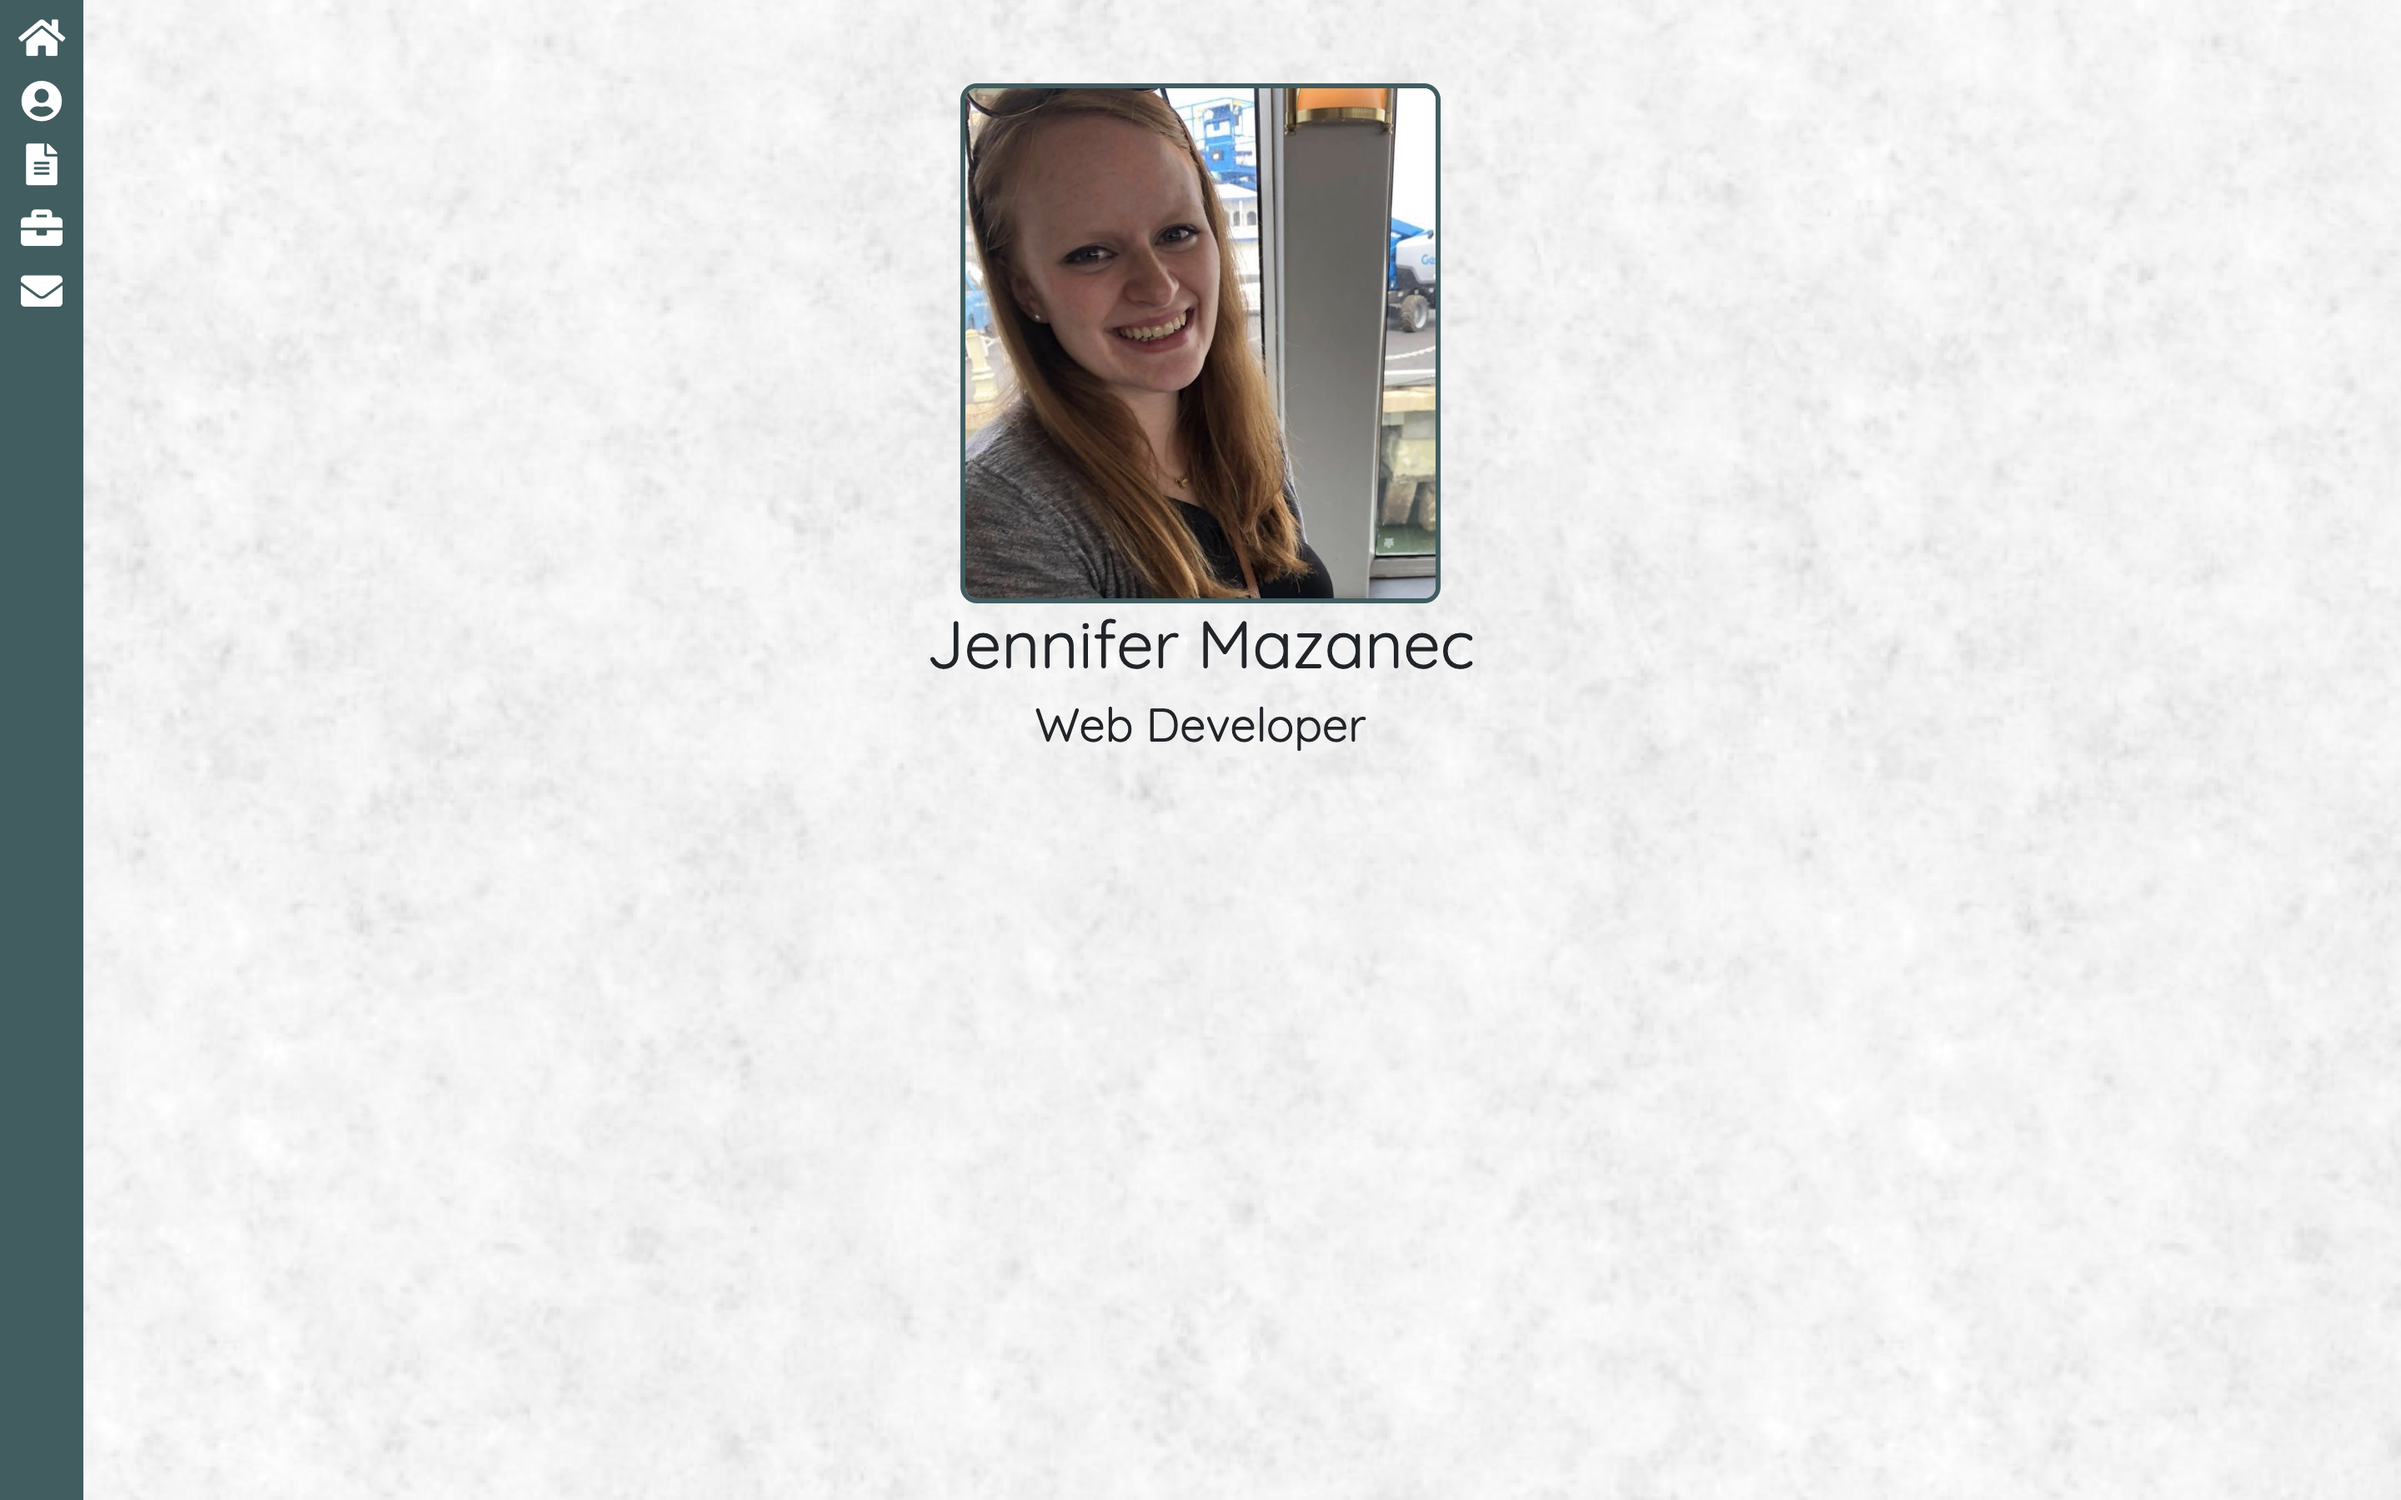
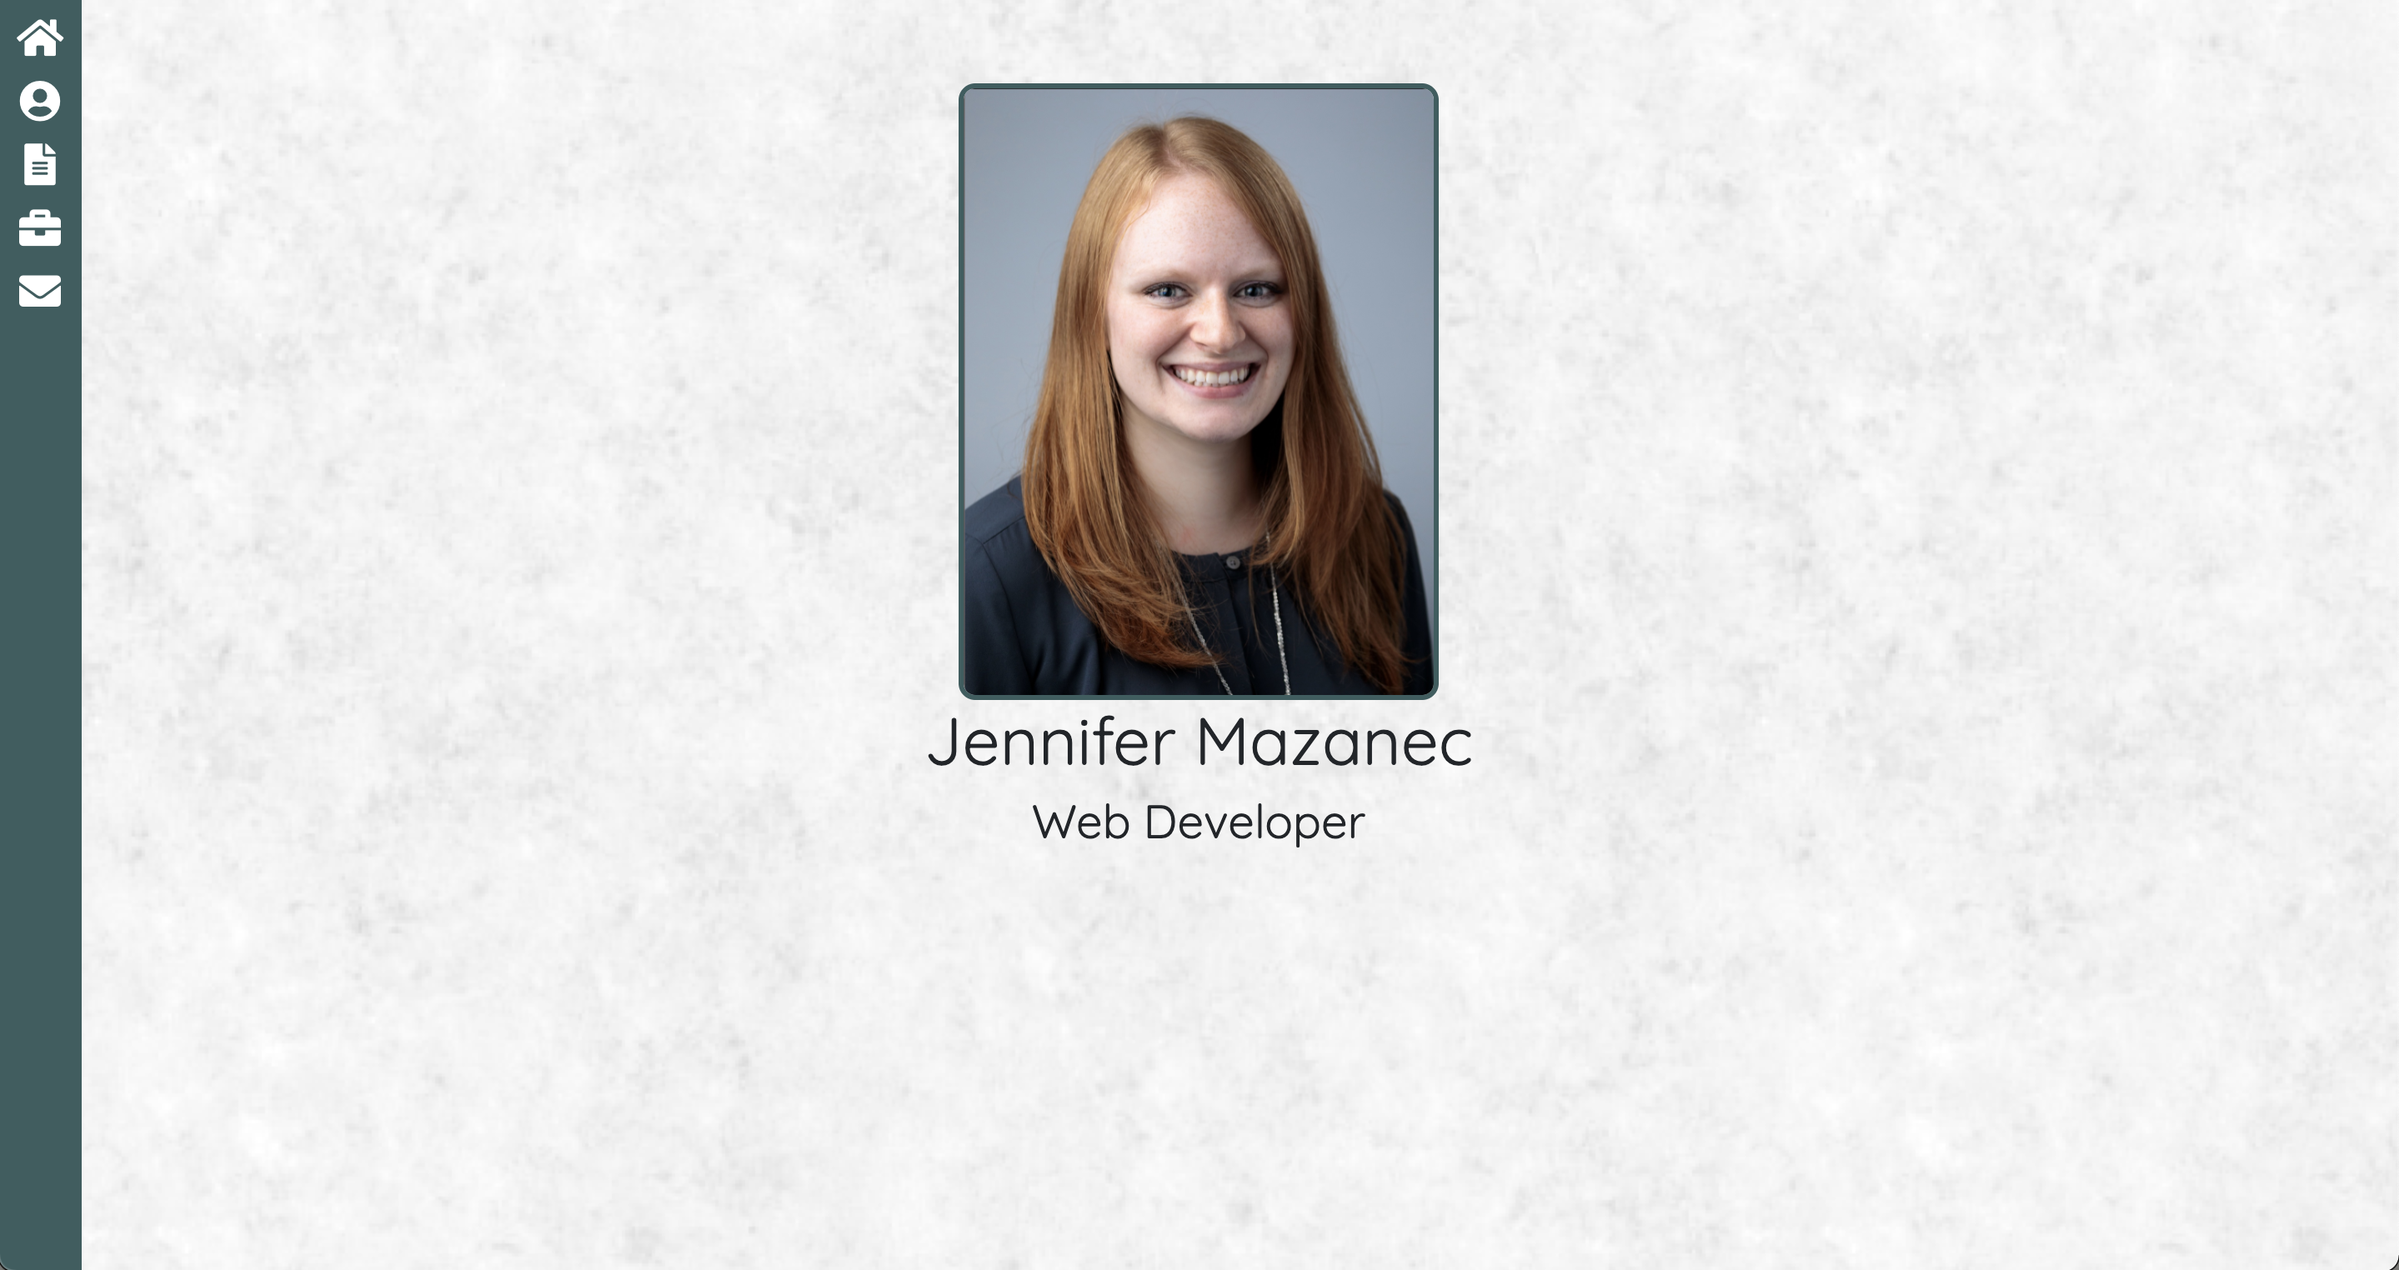
updated pictures

Changed region(s): [[0.3711, 0.0308, 0.6185, 0.6785], [0.0, 0.0, 0.0309, 0.2467], [0.9896, 0.9869, 1.0, 1.0]]

diff --git a/index.html b/index.html
@@ -66,7 +66,7 @@
     <div class="container-fluid">
         <section id="home">
             <div class="row" id="content">
-                <img src="assets/images/Profile_Pic.jpg" alt="Profile Picture" id="profile-pic">
+                <img src="assets/images/profile_sm.jpg" alt="Profile Picture" id="profile-pic">
                 <h1 id="home-name">Jennifer Mazanec</h1>
                 <h3>Web Developer</h3>
             </div>
